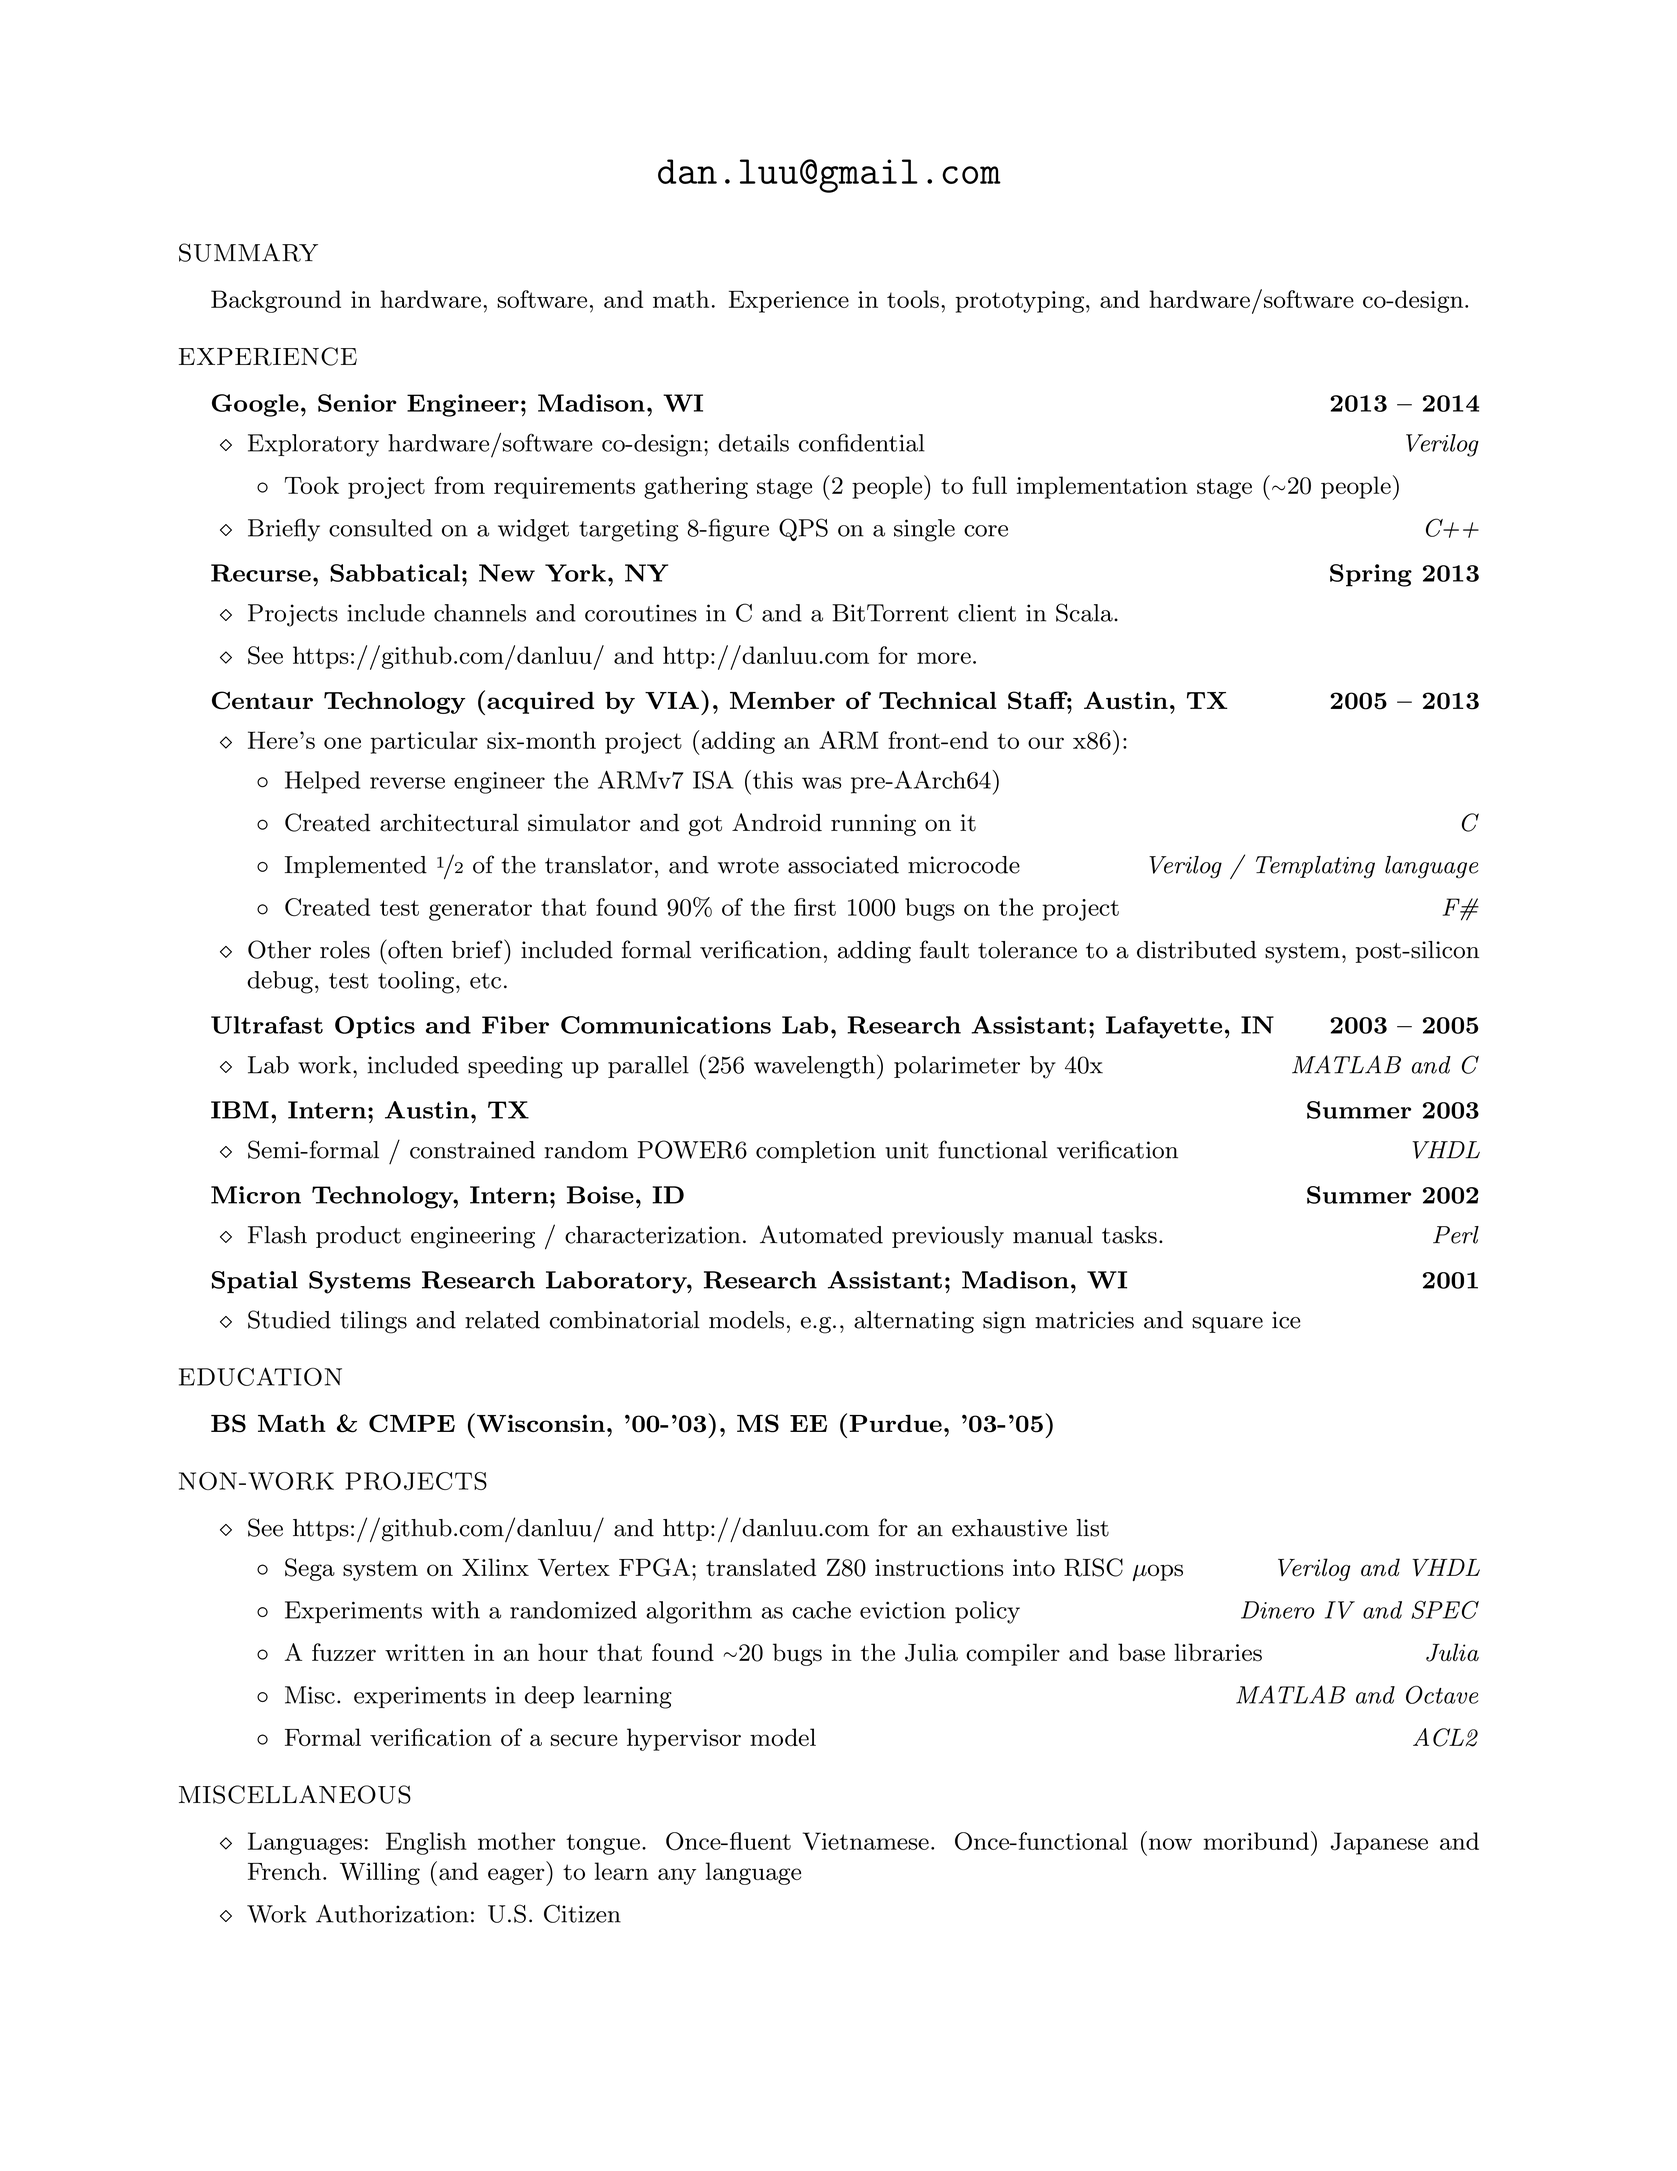
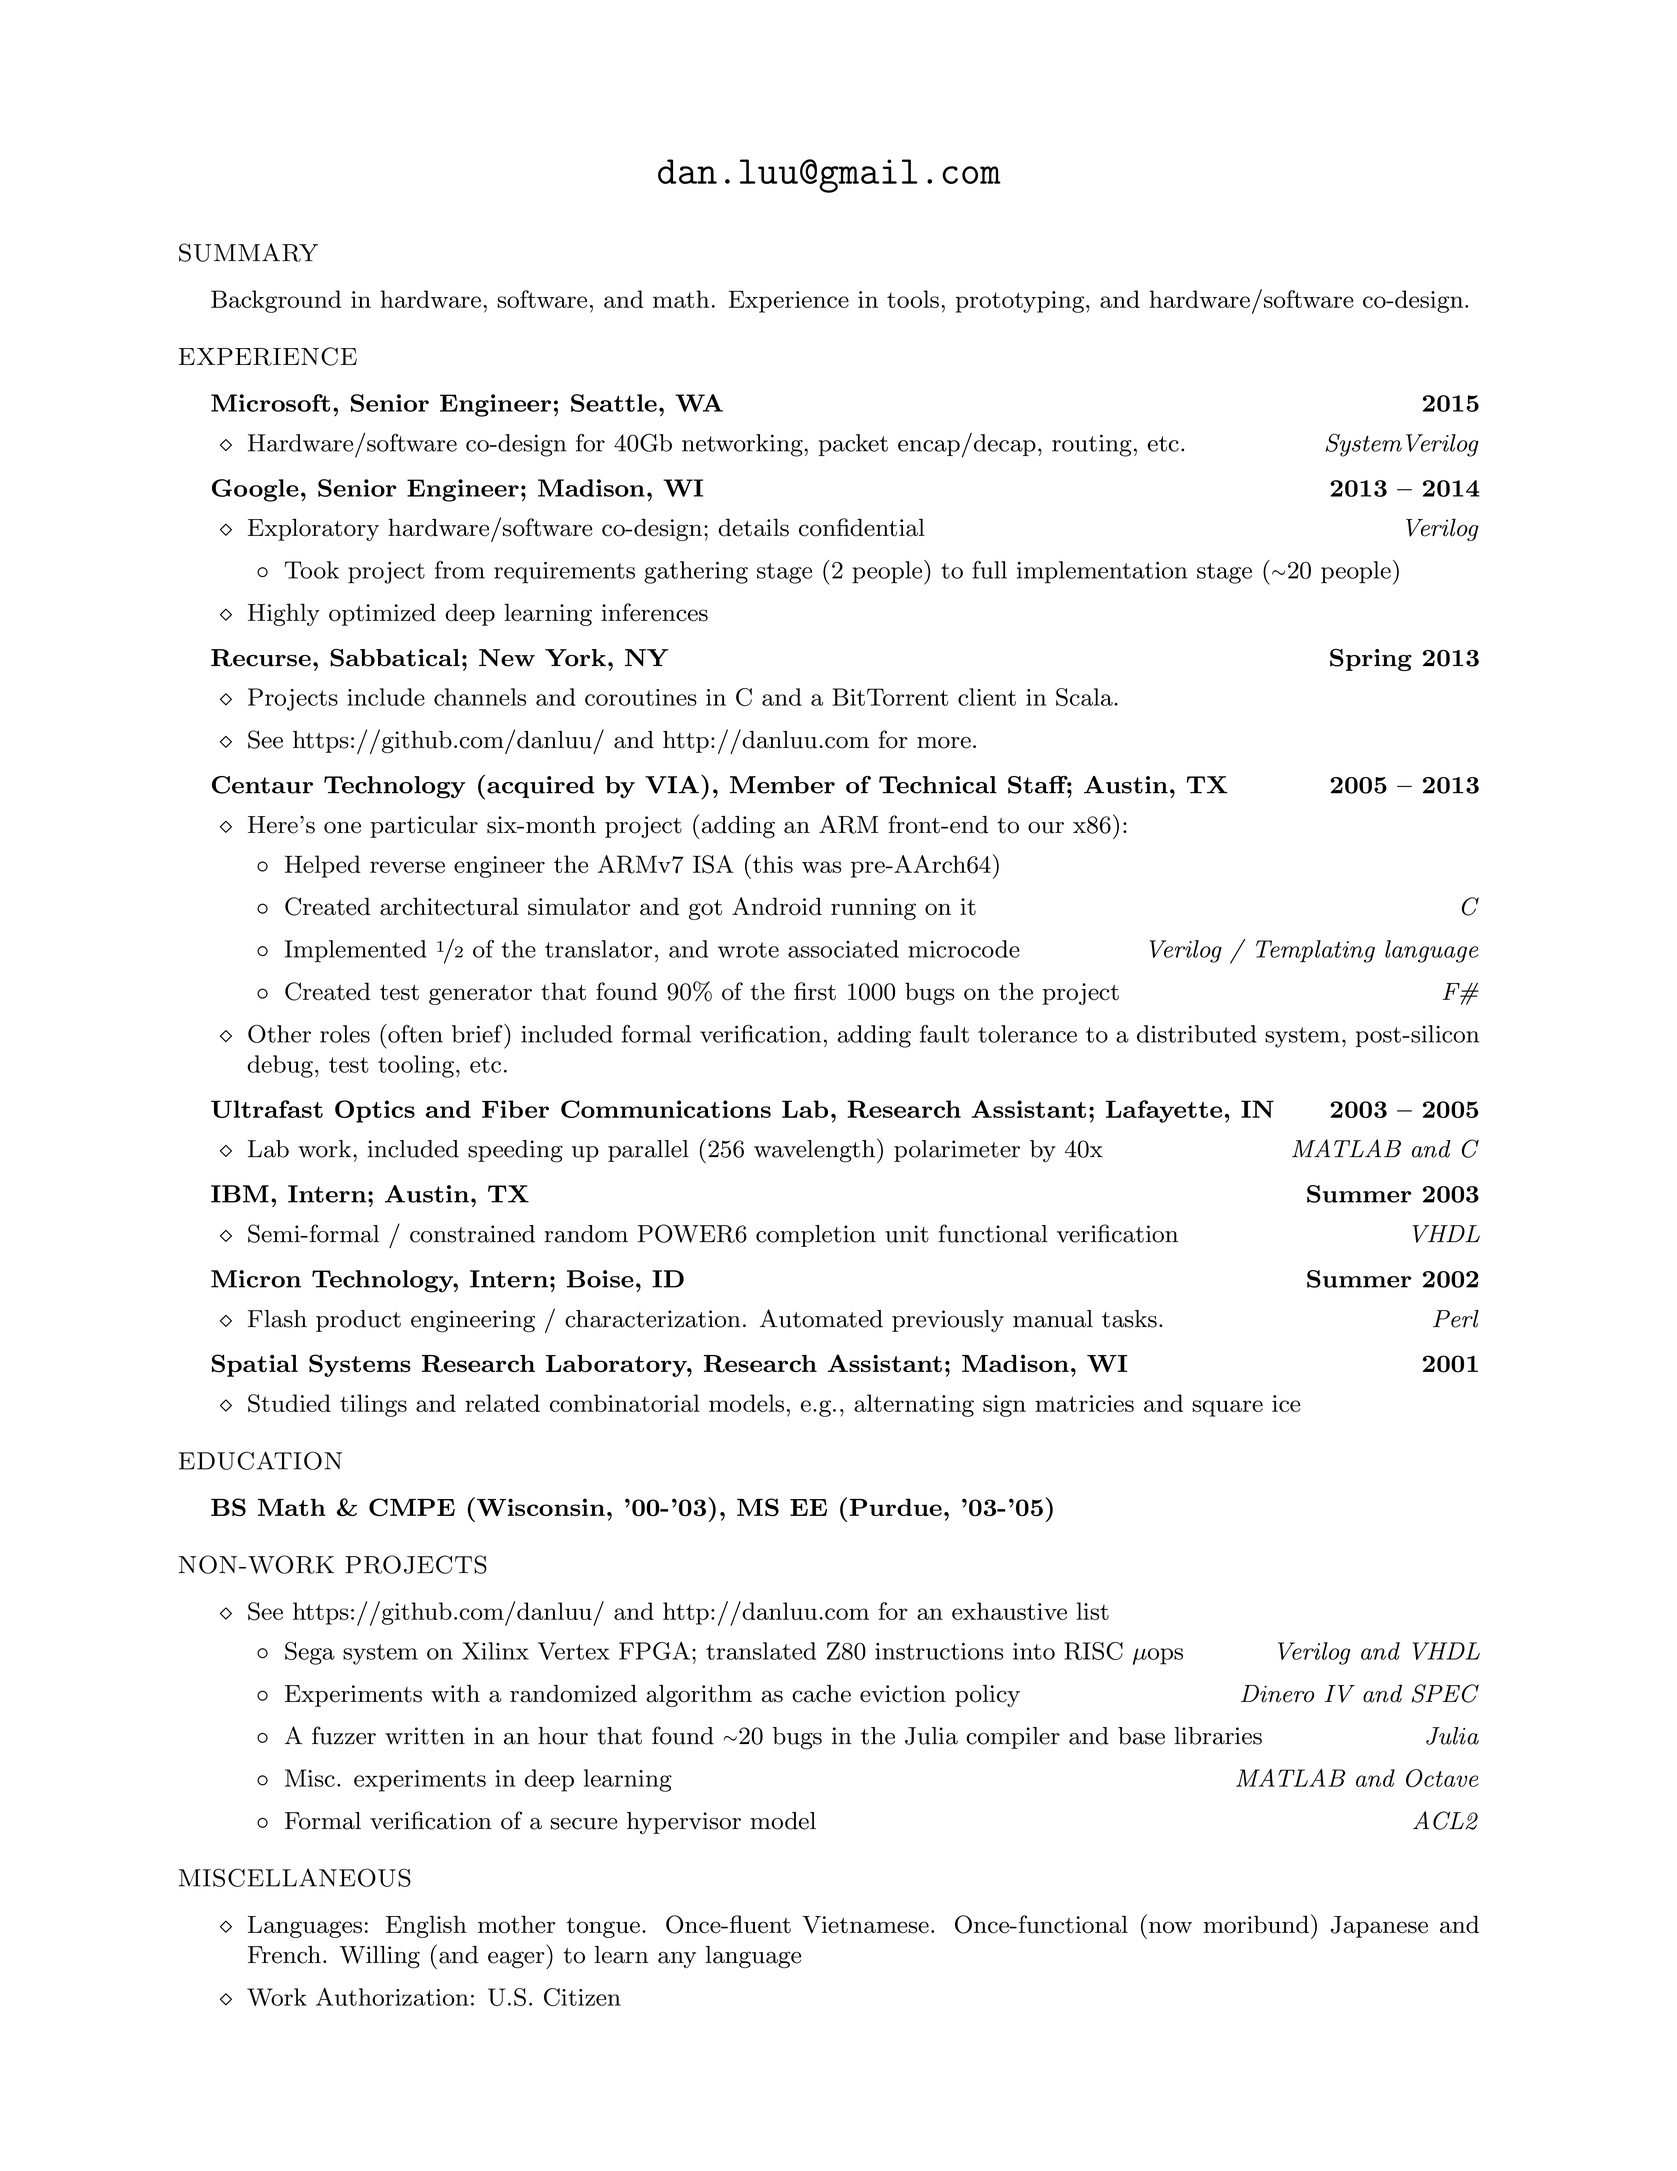
Add MS experience.

diff --git a/resume.tex b/resume.tex
@@ -39,6 +39,13 @@
 
 \begin{list1}
 
+
+\item \begin{tabular1bold} Microsoft, Senior Engineer; Seattle, WA & 2015 \end{tabular1bold}
+
+  \begin{list2}
+  \item Hardware/software co-design for 40Gb networking, packet encap/decap, routing, etc. \hfill \emph{SystemVerilog}
+  \end{list2}
+
 \item \begin{tabular1bold} Google, Senior Engineer; Madison, WI & 2013 -- 2014 \end{tabular1bold}
 
   \begin{list2}
@@ -47,7 +54,7 @@
     \begin{list3}
       \item Took project from requirements gathering stage (2 people) to full implementation stage ({\raise.17ex\hbox{$\scriptstyle\mathtt{\sim}$}}20 people)
     \end{list3}
-    \item Briefly consulted on a widget targeting 8-figure QPS on a single core \hfill \emph{C++}
+    \item Highly optimized deep learning inferences
   \end{list2}
 
 \item \begin{tabular1bold} Recurse, Sabbatical; New York, NY & Spring 2013 \end{tabular1bold}
